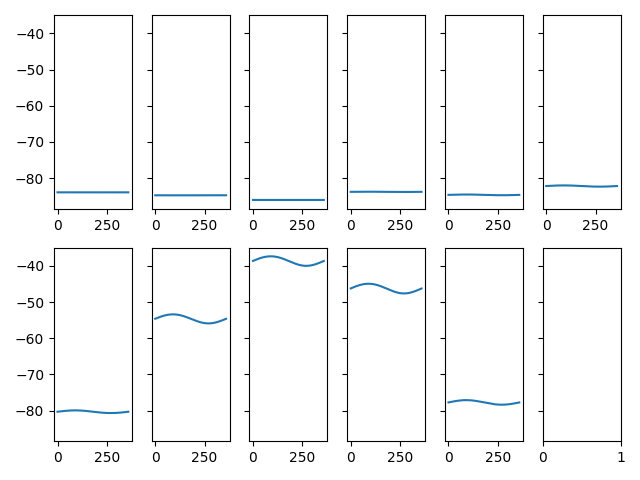
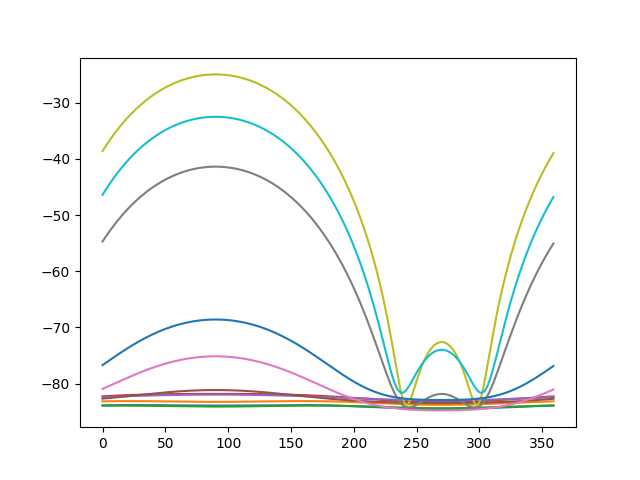
間違いを修正

diff --git a/skotsugi/chapter05/q08.py b/skotsugi/chapter05/q08.py
@@ -7,20 +7,21 @@ from q07 import F
 def beam_pattern(w: np.ndarray, p: np.ndarray, fs):
     F, M = w.shape
 
-    theta = np.arange(360) * np.pi / 180.0
+    angle = np.arange(360)
+    theta = angle * np.pi / 180.0
     freq = np.arange(F) * fs / 2 / (F - 1)
 
     Phi = np.zeros((F, 360), dtype=complex)
 
     for i, f in enumerate(freq):
         for j, th in enumerate(theta):
-            a = np.array([array_manifold_vector(p, th, f)]).T
-            w_f = np.array([w[i]]).T
+            a = array_manifold_vector(p, th, f)
+            w_f = w[i]
 
-            Phi[i, j] = (w_f.T @ a)[0, 0]
+            Phi[i, j] = w_f.T @ a
 
     A = 20 * np.log10(np.abs(Phi))
-    return A
+    return angle, freq, A
 
 
 if __name__ == "__main__":
@@ -29,15 +30,14 @@ if __name__ == "__main__":
     M = 3
     c = 334
 
-    # ステアリングベクトル
-    w = np.zeros((F, M), dtype=complex)
-    tau = (np.arange(M) - (M - 1) / 2) * d / c / fs
-    for f in range(F):
-        w[f, :] = np.exp(-1j * 2 * np.pi * f * tau) / M
-
     # 直線状アレイ
     p = np.array([[-d, 0, 0], [0, 0, 0], [d, 0, 0]])
 
-    A = beam_pattern(w, p, fs)
-    plt.imshow(A)
+    # ステアリングベクトル
+    w = np.zeros((F, M), dtype=complex)
+    for f in range(F):
+        a_w = array_manifold_vector(p, 0, f)
+        w[f, :] = np.conj(a_w) / M
+
+    plt.pcolormesh(*beam_pattern(w, p, fs))
     plt.savefig("./skotsugi/chapter05/q08.png")

diff --git a/skotsugi/chapter05/q10.py b/skotsugi/chapter05/q10.py
@@ -2,7 +2,6 @@ import numpy as np
 from scipy.signal import stft
 from q01 import linear_array_manifold_vector
 from q04 import spatial_correlation_matrix
-from q06 import x, fs
 
 
 def spatial_spectrum(z: np.ndarray, f: float, fs: float):
@@ -11,34 +10,31 @@ def spatial_spectrum(z: np.ndarray, f: float, fs: float):
     L = 1024
     S = 512
 
-    _, __, Z = stft(z, fs, window="hann", nperseg=L, noverlap=L - S)
+    fbin, _, Z = stft(z, fs, window="hann", nperseg=L, noverlap=L - S)
     R = spatial_correlation_matrix(Z)
 
     P = np.zeros(360, dtype=complex)
 
     for deg in range(360):
         theta = deg * np.pi / 180.0
-        a = linear_array_manifold_vector(d, M, theta, f)
-        w = np.array([a]).T / M
+        a = np.array([linear_array_manifold_vector(d, M, theta, fbin[f])])
+        w = a.T / M
 
-        P[deg] = np.conjugate(w.T) @ R[f] @ w
+        P[deg] = (np.conj(w).T @ R[f] @ w).item()
 
     return P
 
 
 if __name__ == "__main__":
     import matplotlib.pyplot as plt
+    from q06 import x, fs
 
     degs = np.arange(360)
 
-    fig, ax = plt.subplots(2, 6, sharey=True)
     for k in range(11):
-        i = k // 6
-        j = k % 6
         f = k + 20
 
         P = spatial_spectrum(x, f, fs)
-        ax[i][j].plot(degs, 20 * np.log10(np.abs(P)))
+        plt.plot(degs, 20 * np.log10(np.abs(P)))
 
-    plt.tight_layout()
     plt.savefig("./skotsugi/chapter05/q10.png")

diff --git a/skotsugi/chapter05/q09.py b/skotsugi/chapter05/q09.py
@@ -1,5 +1,6 @@
 import numpy as np
 import matplotlib.pyplot as plt
+from q03 import array_manifold_vector
 from q08 import beam_pattern, F
 
 fs = 16000
@@ -11,15 +12,14 @@ fig, ax = plt.subplots(1, 3)
 for i, d in enumerate(ds):
     # ステアリングベクトル
     w = np.zeros((F, M), dtype=complex)
-    tau = (np.arange(M) - (M - 1) / 2) * d / c / fs
     for f in range(F):
-        w[f, :] = np.exp(-1j * 2 * np.pi * f * tau) / M
+        a_w = array_manifold_vector(p, 0, f)
+        w[f, :] = np.conj(a_w) / M
 
     # 直線状アレイ
     p = np.array([[-d, 0, 0], [0, 0, 0], [d, 0, 0]])
 
-    A = beam_pattern(w, p, fs)
-    ax[i].imshow(A)
+    ax[i].pcolormesh(*beam_pattern(w, p, fs))
 
 plt.tight_layout()
 plt.savefig("./skotsugi/chapter05/q09.png")

diff --git a/skotsugi/chapter05/q04.py b/skotsugi/chapter05/q04.py
@@ -1,7 +1,7 @@
 import numpy as np
 
 
-def spatial_correlation_matrix(X_m: np.ndarray):
+def spatial_correlation_matrix(X_m: np.ndarray) -> np.ndarray:
     M, F, T = X_m.shape
     R = np.zeros((F, M, M), dtype=complex)
 
@@ -9,7 +9,7 @@ def spatial_correlation_matrix(X_m: np.ndarray):
         sum_x = np.zeros((M, M), dtype=complex)
         for t in range(T):
             x_ft = np.array([X_m[:, f, t]]).T
-            sum_x += x_ft @ np.conjugate(x_ft.T)
+            sum_x += x_ft @ np.conj(x_ft.T)
 
         R[f] = sum_x / T
 
